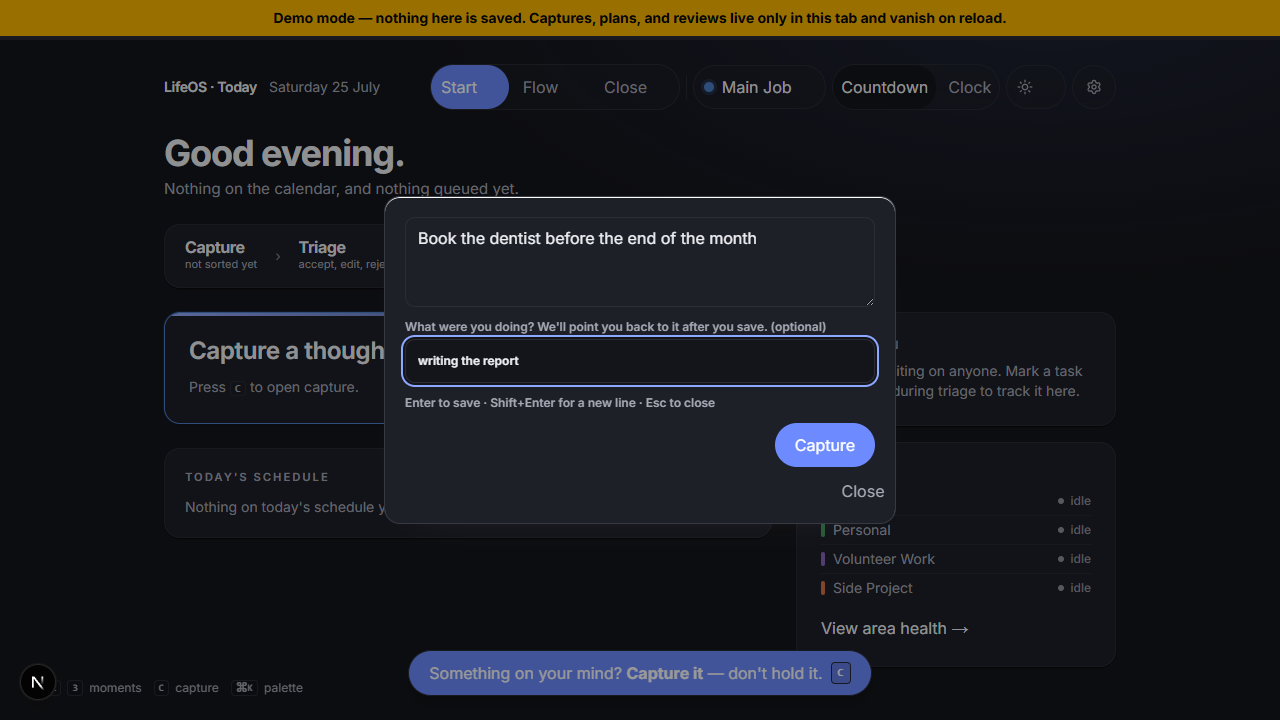
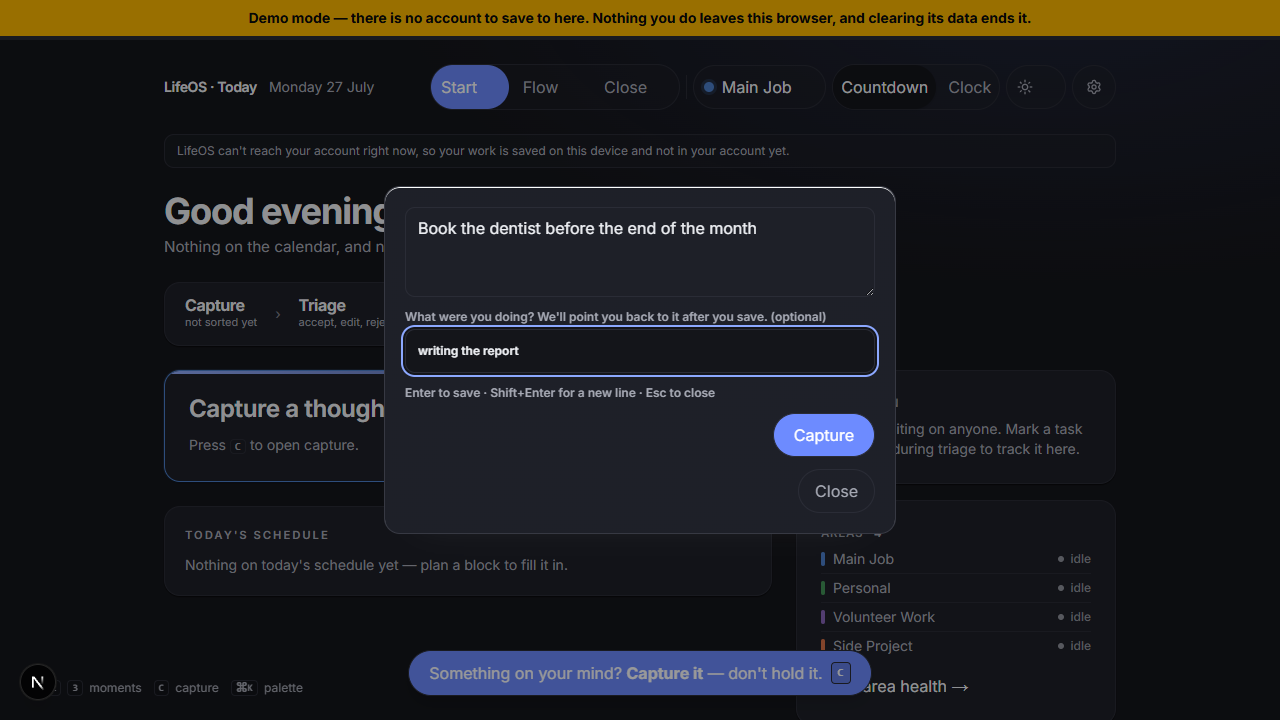
fix(truth): #737 C1 S5 — narrow the three capture claims to what actually holds
The reach trace found three live phrases claiming a device store that a
signed-out-but-ONLINE capture never reaches. `submitCaptureText` routes to
the durable queue only when `navigator.onLine === false`; otherwise the
capture is staged in the reducer and mirrored to per-TAB sessionStorage, so
it survives a reload and dies with the tab (#750 inventory row 4).

  - capture toast: "Saved on this device — sign in to keep it everywhere."
    -> "Sign in to keep it — until then it's only in this tab."
  - triage sheet: "Saved on this device." -> "These captures are only in
    this browser tab."
  - login (demo mode): "Your notes are still saved on this device."
    -> "Your notes stay in this browser."

Words narrowed rather than behavior fixed, deliberately and disclosed. Making
these captures durable needs a device READ path as well as a write one — a
journalled capture with no read path is durable-but-invisible, which is a
different lie, not a fix. That is Target Card 3's criterion with its own pin,
and the mechanism is the WorkflowState device mirror #778 already named.
AGENT-TODO + OWNER-GATE on the PR.

Widening these back is earned by the durability, not by rephrasing.

Re-anchored, not deleted: login.test.tsx.

diff --git a/apps/web/src/app/components/moments/TodayMoments.tsx b/apps/web/src/app/components/moments/TodayMoments.tsx
@@ -1311,8 +1311,18 @@ export function TodayMoments({
           // to branch on here — the offline case is simply "offline".
           const offline =
             typeof navigator !== "undefined" && navigator.onLine === false;
+          // #737 C1 S5 — WAS " Saved on this device — sign in to keep it
+          // everywhere.", and that was false. A signed-out capture made while
+          // ONLINE never reaches a device store: `submitCaptureText` only
+          // routes to the durable queue when `navigator.onLine === false`, so
+          // this one is staged in the reducer and mirrored to per-TAB
+          // sessionStorage. It survives a reload and dies with the tab.
+          //
+          // The words now say the narrower true thing. Widening them back is
+          // earned by making the capture durable (Target Card 3), not by
+          // rephrasing — see the AGENT-TODO on this slice's PR.
           const signedOutNote = syncStatus.signedOut
-            ? " Saved on this device — sign in to keep it everywhere."
+            ? " Sign in to keep it — until then it's only in this tab."
             : "";
           if (offline) {
             showToast(

diff --git a/apps/web/src/app/components/moments/TriageSheet.tsx b/apps/web/src/app/components/moments/TriageSheet.tsx
@@ -325,13 +325,19 @@ export function TriageSheet({
       <UnsortedCaptures areaId={resolvedAreaId} />
 
       {/* #689 item 3: when signed out, say where these live, plainly, with
-          the door right here. */}
+          the door right here.
+
+          #737 C1 S5: it said "Saved on this device." A signed-out capture
+          made online is staged in the reducer and mirrored to per-TAB
+          sessionStorage — never to a device store — so "this device" claimed
+          more than was true. The door and the reason for it are unchanged;
+          only the claim narrowed to what actually holds. */}
       {syncStatus.signedOut ? (
         <p
           className="text-xs text-muted-foreground"
           data-testid="triage-sheet-signedout-note"
         >
-          Saved on this device.{" "}
+          These captures are only in this browser tab.{" "}
           <Link
             href="/login?next=/"
             className="font-semibold text-foreground underline underline-offset-2"

diff --git a/apps/web/src/__tests__/durableTruthS5Guard.test.tsx b/apps/web/src/__tests__/durableTruthS5Guard.test.tsx
@@ -178,16 +178,14 @@ function RollupHarness() {
         periodType: "week",
         periodStart: "2026-05-04",
         periodEnd: "2026-05-10",
+        // The real `RollupSummaryContent` shape, not a convenient stand-in:
+        // this payload is what a replay hands to `CreateRollupSummaryInputSchema`,
+        // so a test that journalled a different shape would prove the write is
+        // durable while hiding that it is undeliverable.
         summary: {
-          headline: "A steady week",
-          counts: {
-            completed: 3,
-            missed: 1,
-            captured: 5,
-            tasksCreated: 4,
-          },
-          highlights: [],
-          nextFocus: null,
+          highlights: ["Shipped the durable-writes slice"],
+          misses: [],
+          counts: { completed: 3, missed: 1 },
         },
       });
       setDone(true);

diff --git a/apps/web/src/__tests__/login.test.tsx b/apps/web/src/__tests__/login.test.tsx
@@ -72,7 +72,11 @@ describe("LoginPage", () => {
     fireEvent.click(screen.getByRole("button", { name: "Sign in" }));
 
     expect(await screen.findByRole("alert")).toHaveTextContent(
-      "Accounts aren't set up here yet, so there's nothing to sign in to. Your notes are still saved on this device.",
+      // Re-anchored by #737 C1 S5: "saved on this device" claimed a device
+      // store that a demo-mode capture never reaches (it is staged in the
+      // reducer and mirrored to per-tab sessionStorage). "stay in this
+      // browser" is what is true of everything here.
+      "Accounts aren't set up here yet, so there's nothing to sign in to. Your notes stay in this browser.",
     );
     expect(mocks.signInWithPassword).not.toHaveBeenCalled();
   });

diff --git a/apps/web/src/app/login/page.tsx b/apps/web/src/app/login/page.tsx
@@ -62,7 +62,7 @@ function LoginForm() {
         // #692 plain language: no vendor/config vocabulary — say what it means
         // for the person.
         message:
-          "Accounts aren't set up here yet, so there's nothing to sign in to. Your notes are still saved on this device.",
+          "Accounts aren't set up here yet, so there's nothing to sign in to. Your notes stay in this browser.",
       });
       return;
     }
